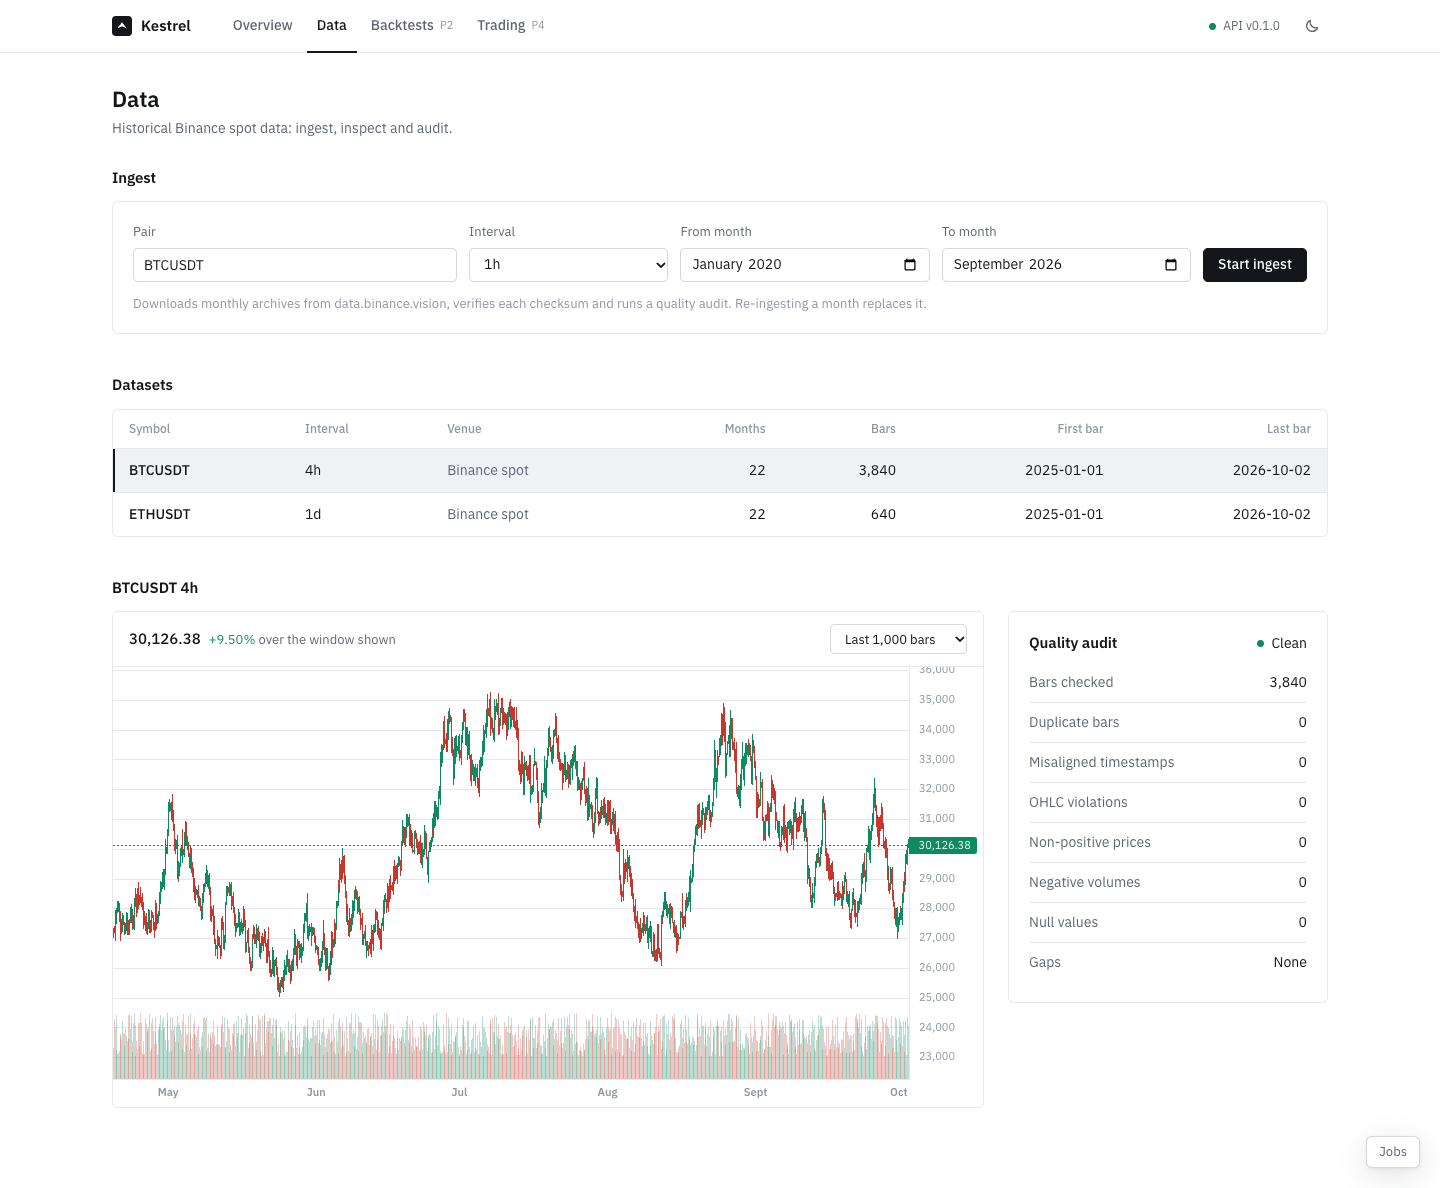
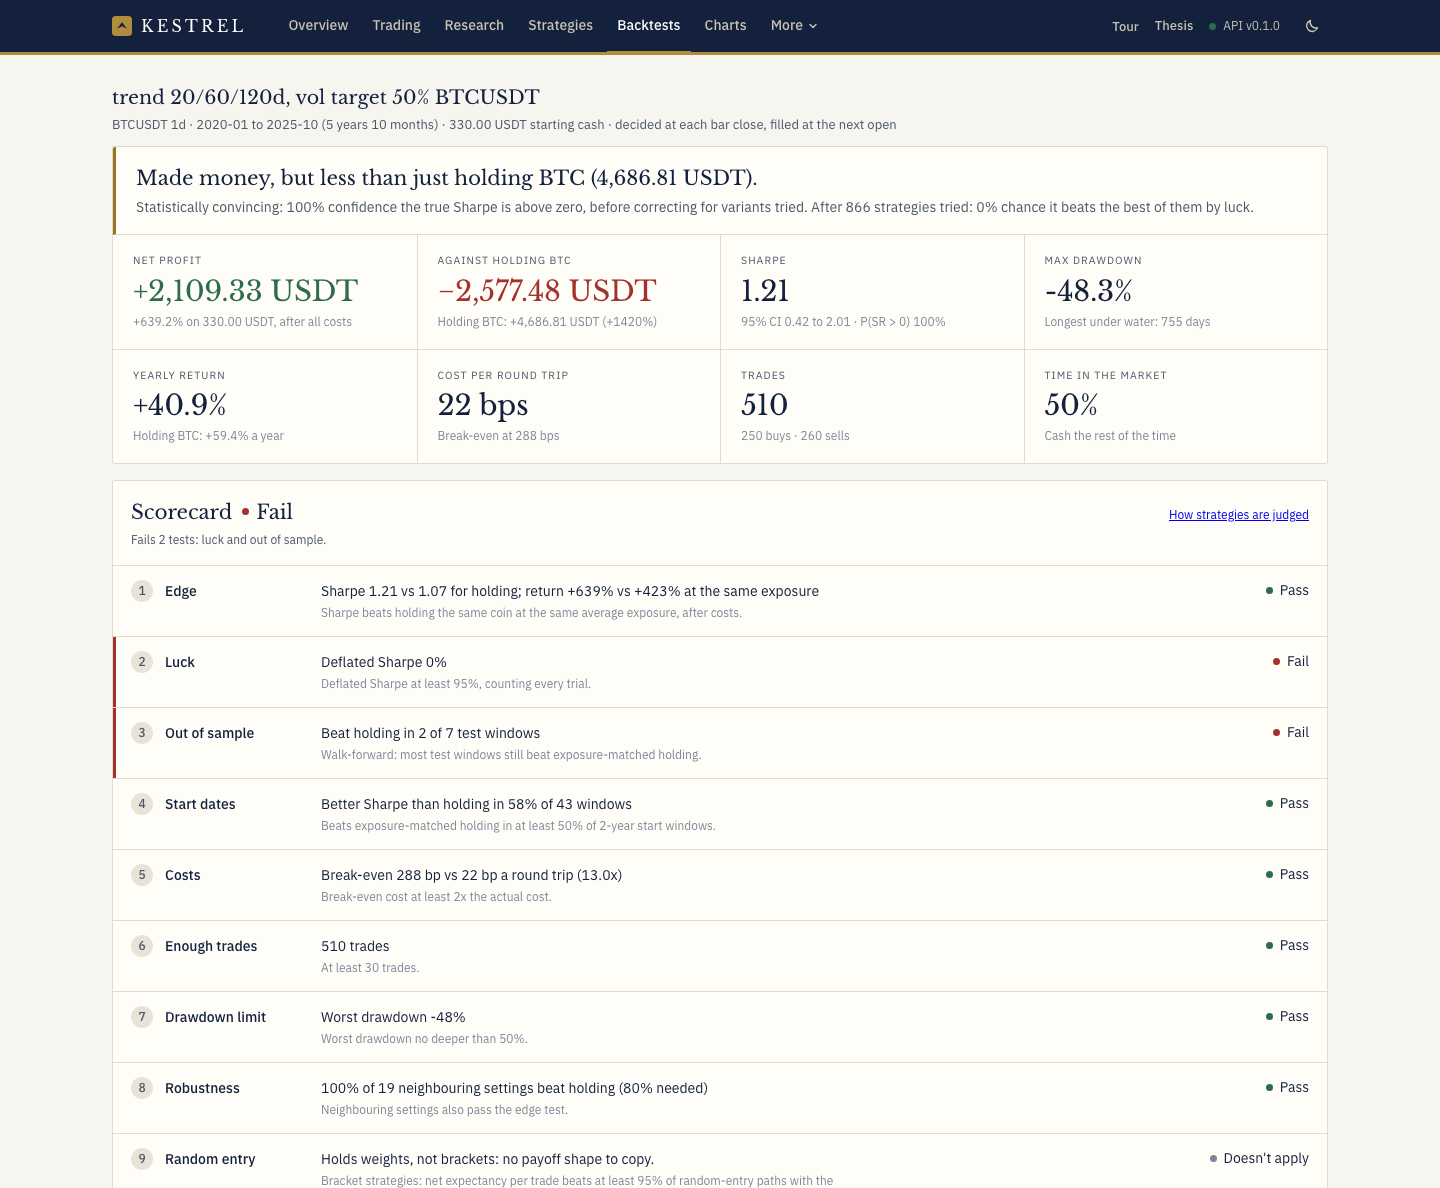
README: screenshots in the house style, a real backtest's scorecard and the Thesis

diff --git a/TODO.md b/TODO.md
@@ -61,8 +61,8 @@ exists and Luke has checked the Swyftx employee trading policy.
 ## Done recently
 - 2026-11-22 House style (Luke): an institutional frame (navy bar with a gold rule, cream,
   Libre Baskerville titles and figures, square corners) with Source Serif reading text on
-  the story pages; light and dark. Fonts bundled, nothing loaded from outside. The README
-  screenshot still shows the old style.
+  the story pages; light and dark. Fonts bundled, nothing loaded from outside. README
+  screenshots retaken (a real backtest's scorecard; the Thesis in dark).
 - 2026-11-22 Guided tour of the dashboard ("Tour", top right): 12 stops from the question to
   the limits, one of them a strategy failing its scorecard. Our own component; the stops
   are data, tested to point at things that exist. Later, only if wanted: a hosted

diff --git a/README.md b/README.md
@@ -86,9 +86,12 @@ duckdb.sql("""
 
 ## Dashboard
 
-![Kestrel dashboard, Data page](docs/dashboard-light.png)
+![Kestrel dashboard: a backtest and its scorecard](docs/dashboard-light.png)
 
-<sub>Screenshot uses synthetic test data. Light and dark themes; toggle in the top bar.</sub>
+<sub>A real run from the research: trend following on BTC, 2020-25, after costs. It beats BTC
+held at the same exposure (Sharpe 1.21 vs 1.07) but fails the luck and walk-forward tests,
+so it is paper-traded as risk-managed holding, not called an edge. Light and dark themes
+(the [Thesis page in dark](docs/dashboard-dark.png)); toggle in the top bar.</sub>
 
 The dashboard reads; research and trading actions run from the CLI or as **jobs** with
 live progress, logs and cancellation.
